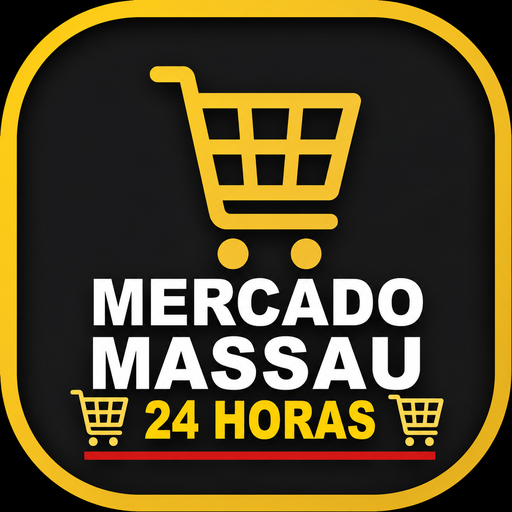
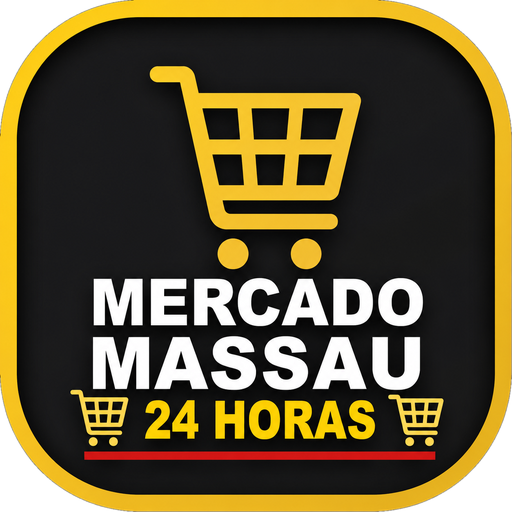
Melhora a tela de abertura do PWA
O icone aparecia como um quadrado preto porque eram duas coisas se
somando: os 4 cantos do PNG eram preto OPACO (a logo e um cracha
arredondado, mas o canvas quadrado ficava visivel) e o background_color
da splash era quase branco (#f6f6f7), o que dava contraste maximo com
esses cantos.

- Cantos recortados: floodfill a partir dos 4 cantos da logo original,
  parando no anel dourado (que e fechado). Conferido que a area removida
  ficou em 6,5% -- so os cantos, sem vazar para o miolo.
- background_color e theme_color do manifest agora sao #101014, o mesmo
  --background do tema escuro. Comparei as opcoes lado a lado antes de
  escolher: no preto puro o miolo do cracha aparece como retangulo, e o
  vermelho da marca briga com o dourado.
- Barra de status deixou de ser o vermelho fixo (sobra de quando o topo
  do app era vermelho) e passou a acompanhar o cabecalho bg-surface em
  cada tema, via theme-color com media query.
- Maskable e apple-touch-icon regerados no mesmo fundo, para o icone da
  gaveta e o do iOS combinarem com a splash.

diff --git a/src/app/layout.tsx b/src/app/layout.tsx
@@ -27,7 +27,13 @@ export const metadata: Metadata = {
 }
 
 export const viewport: Viewport = {
-  themeColor: '#d61f2b',
+  // Cor da barra de status do celular. Era o vermelho da marca, sobra da
+  // epoca em que o topo do app era vermelho -- hoje o cabecalho e bg-surface,
+  // entao a barra combina com ele em cada tema em vez de destoar.
+  themeColor: [
+    { media: '(prefers-color-scheme: light)', color: '#ffffff' },
+    { media: '(prefers-color-scheme: dark)', color: '#1a1a20' },
+  ],
   width: 'device-width',
   initialScale: 1,
 }
